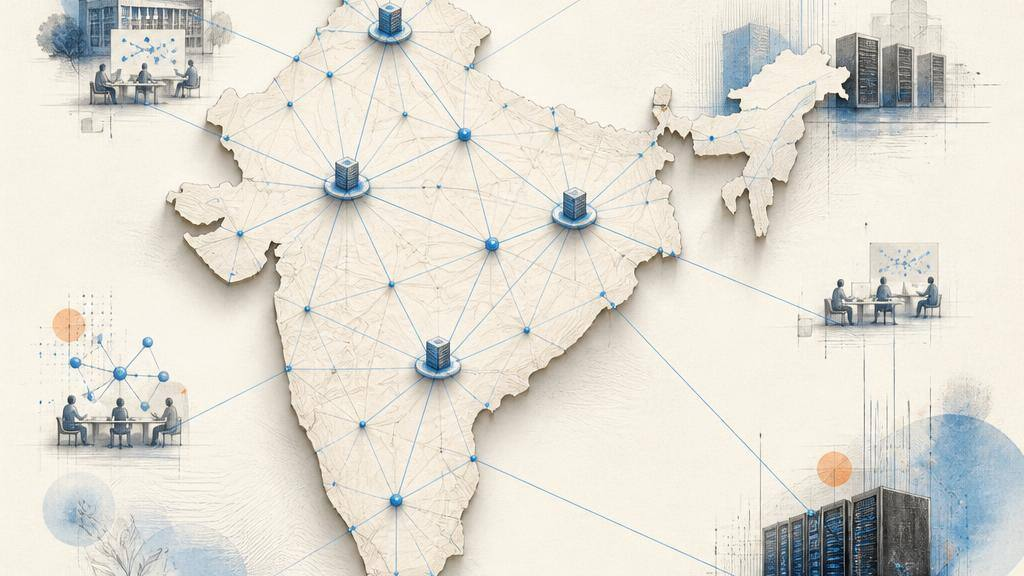
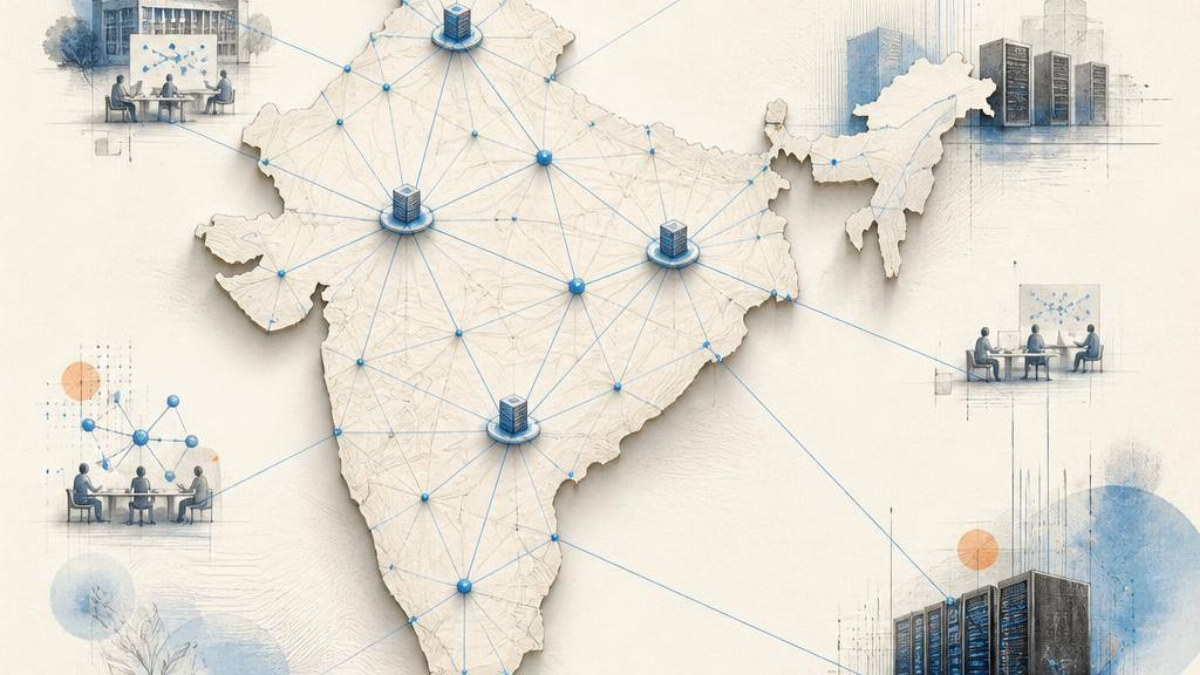
Accessibility pass, Discover-size images, offline reading, better 404
- Accessibility (axe, WCAG 2.1 AA + best practice, 12 page types x
  light/dark): 0 violations. Light-mode text accent darkened to #226bc4
  (>= 4.5:1 on every light surface; charts keep their validated hue),
  chart tooltip hidden from AT (data is in aria-labels and tables),
  heading order fixed (list headings, tracker 'At a glance'), unique
  share landmark labels, glossary letter sections no longer inside <dl>
- Google Discover: the 7 legacy social images re-rendered at 1200x675
  (was 1024x576; Discover needs >= 1200 px wide)
- Offline reading: service worker (network-first pages, cache-first
  static assets, capped caches, never touches other origins) with an
  /offline/ fallback page (noindex); sw.js served no-cache; manifest id
  and scope
- 404: search button, quick links, latest stories

Checks: build + SEO gate, test:schedule, no JS errors, no mobile
overflow, mobile LCP 0.66-0.77 s, CLS 0; offline test: visited article
loads offline, unvisited page shows the offline page.

Claude-Session: https://claude.ai/code/session_01XeDgQPAQZtCDvw4ZWnvfnM

Changed region(s): [[0.7812, 0.875, 0.8438, 0.9688], [0.0938, 0.7188, 0.1562, 0.75], [0.4062, 0.5938, 0.4375, 0.625]]

diff --git a/site/public/sw.js b/site/public/sw.js
@@ -1,0 +1,64 @@
+/* Global AI News service worker: offline reading for pages a reader has
+   opened, fast repeat visits for static assets. Network-first for pages so
+   news is never stale online. Never touches other origins (ads, analytics). */
+const VERSION = 'gan-v1';
+const PAGES = `${VERSION}-pages`;
+const ASSETS = `${VERSION}-assets`;
+const OFFLINE = '/offline/';
+const MAX_PAGES = 40;
+const MAX_ASSETS = 120;
+
+self.addEventListener('install', (e) => {
+  e.waitUntil(caches.open(PAGES).then((c) => c.addAll([OFFLINE, '/'])).then(() => self.skipWaiting()));
+});
+
+self.addEventListener('activate', (e) => {
+  e.waitUntil(
+    caches.keys()
+      .then((keys) => Promise.all(keys.filter((k) => !k.startsWith(VERSION)).map((k) => caches.delete(k))))
+      .then(() => self.clients.claim()),
+  );
+});
+
+async function trim(name, max) {
+  const c = await caches.open(name);
+  const keys = await c.keys();
+  for (let i = 0; i < keys.length - max; i++) await c.delete(keys[i]);
+}
+
+self.addEventListener('fetch', (e) => {
+  const req = e.request;
+  if (req.method !== 'GET') return;
+  const url = new URL(req.url);
+  if (url.origin !== self.location.origin) return;
+  if (/^\/(build-info\.json|healthz|sitemap\.xml|news-sitemap\.xml|feed\.xml|robots\.txt|ads\.txt|sw\.js)/.test(url.pathname)) return;
+
+  // Pages: network first, fall back to the cached copy, then the offline page.
+  if (req.mode === 'navigate') {
+    e.respondWith(
+      fetch(req)
+        .then((res) => {
+          if (res.ok) {
+            const copy = res.clone();
+            caches.open(PAGES).then((c) => c.put(req, copy)).then(() => trim(PAGES, MAX_PAGES));
+          }
+          return res;
+        })
+        .catch(async () => (await caches.match(req)) || (await caches.match(OFFLINE))),
+    );
+    return;
+  }
+
+  // Static assets: cache first (hashed or rarely changing files).
+  if (/^\/(_astro|fonts|images)\//.test(url.pathname) || /\.(svg|png|jpg|webp|avif|woff2)$/.test(url.pathname)) {
+    e.respondWith(
+      caches.match(req).then((hit) => hit || fetch(req).then((res) => {
+        if (res.ok) {
+          const copy = res.clone();
+          caches.open(ASSETS).then((c) => c.put(req, copy)).then(() => trim(ASSETS, MAX_ASSETS));
+        }
+        return res;
+      })),
+    );
+  }
+});

diff --git a/site/src/styles/global.css b/site/src/styles/global.css
@@ -23,7 +23,7 @@
   --muted: #5a6478;
   --line: #e2e7f0;
   --line-2: #d3dae6;
-  --accent: #2a78d6;      /* brand blue (also chart series 1) */
+  --accent: #226bc4;      /* brand blue for text/UI; >= 4.5:1 on all light surfaces */
   --accent-ink: #ffffff;
   --accent-soft: #e8f1fd;
   --violet: #6250d6;
@@ -224,9 +224,9 @@ h1, h2, h3 { line-height: 1.12; letter-spacing: -0.012em; }
 .list li { position: relative; padding: 18px 16px; margin: 0 -16px; border-bottom: 1px solid var(--line); border-radius: var(--radius-sm); transition: background .2s; }
 .list li:hover { background: var(--glass); }
 .list li:last-child { border-bottom: 0; }
-.list h3 { font-family: var(--serif); font-weight: 400; font-size: 24px; margin: 4px 0 6px; }
-.list h3 a { color: var(--ink); text-decoration: none; }
-.list h3 a:hover { color: var(--accent); }
+.list :is(h2, h3) { font-family: var(--serif); font-weight: 400; font-size: 24px; margin: 4px 0 6px; letter-spacing: -0.01em; }
+.list :is(h2, h3) a { color: var(--ink); text-decoration: none; }
+.list :is(h2, h3) a:hover { color: var(--accent); }
 .list p { margin: 0 0 6px; color: var(--muted); }
 
 /* ---------- Page heads & section hubs ---------- */

diff --git a/site/src/scripts/motion.ts b/site/src/scripts/motion.ts
@@ -56,7 +56,7 @@ function tooltips() {
   if (!targets.length) return;
   const tip = document.createElement('div');
   tip.className = 'viz-tip';
-  tip.setAttribute('role', 'tooltip');
+  tip.setAttribute('aria-hidden', 'true'); // same data is in each chart's aria-label and table
   document.body.appendChild(tip);
   const show = (el: Element, x: number, y: number) => {
     const [title, ...rest] = (el.getAttribute('data-tip') ?? '').split('|');
@@ -150,3 +150,8 @@ progress();
 citations();
 tocSpy();
 tooltips();
+
+// Offline reading: register the service worker after the page has loaded.
+if ('serviceWorker' in navigator && location.protocol === 'https:') {
+  addEventListener('load', () => navigator.serviceWorker.register('/sw.js').catch(() => {}));
+}
